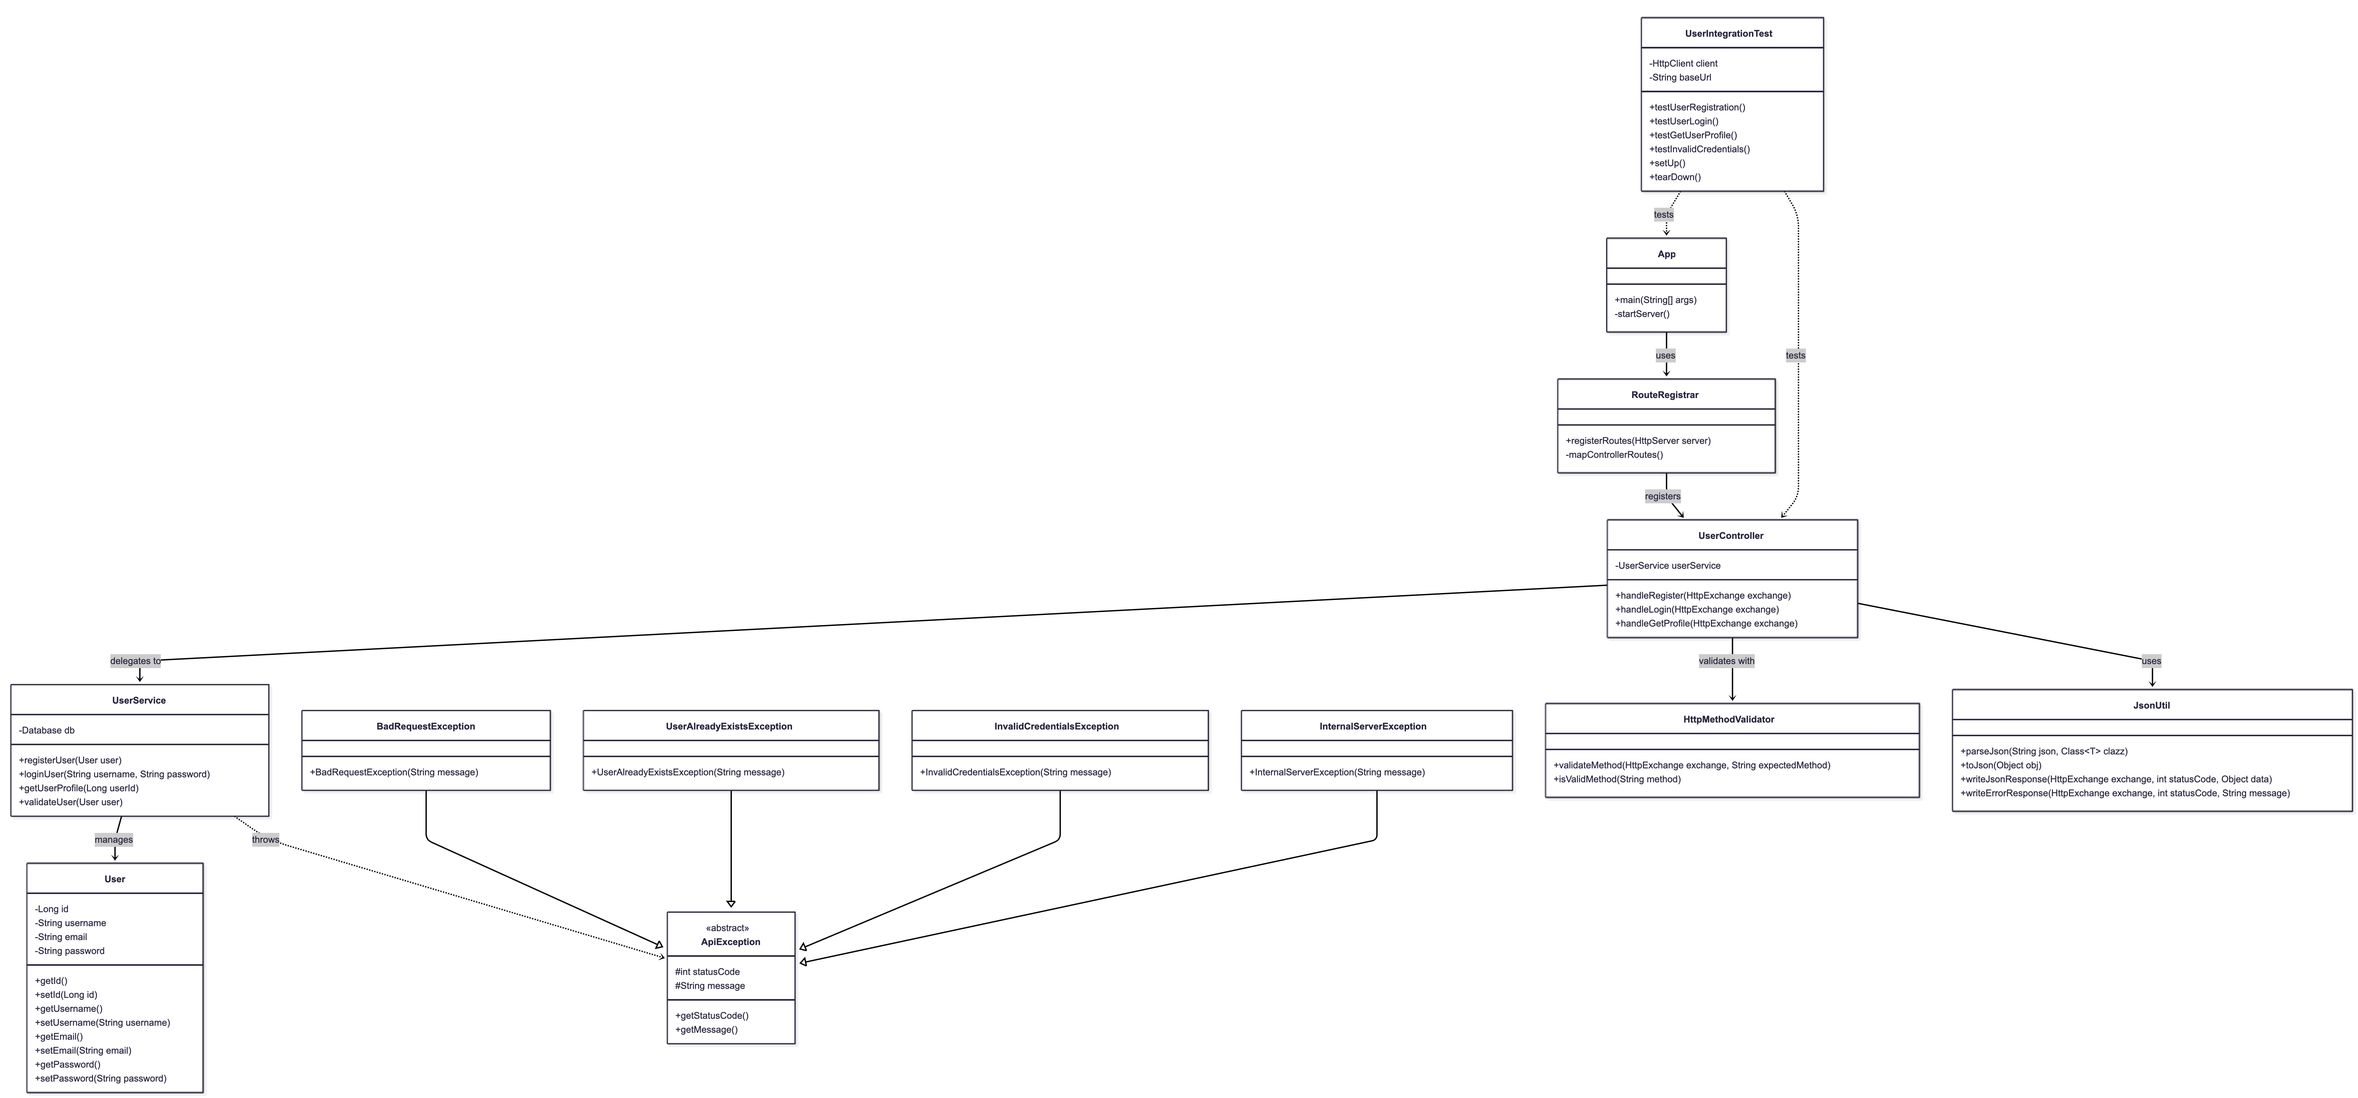
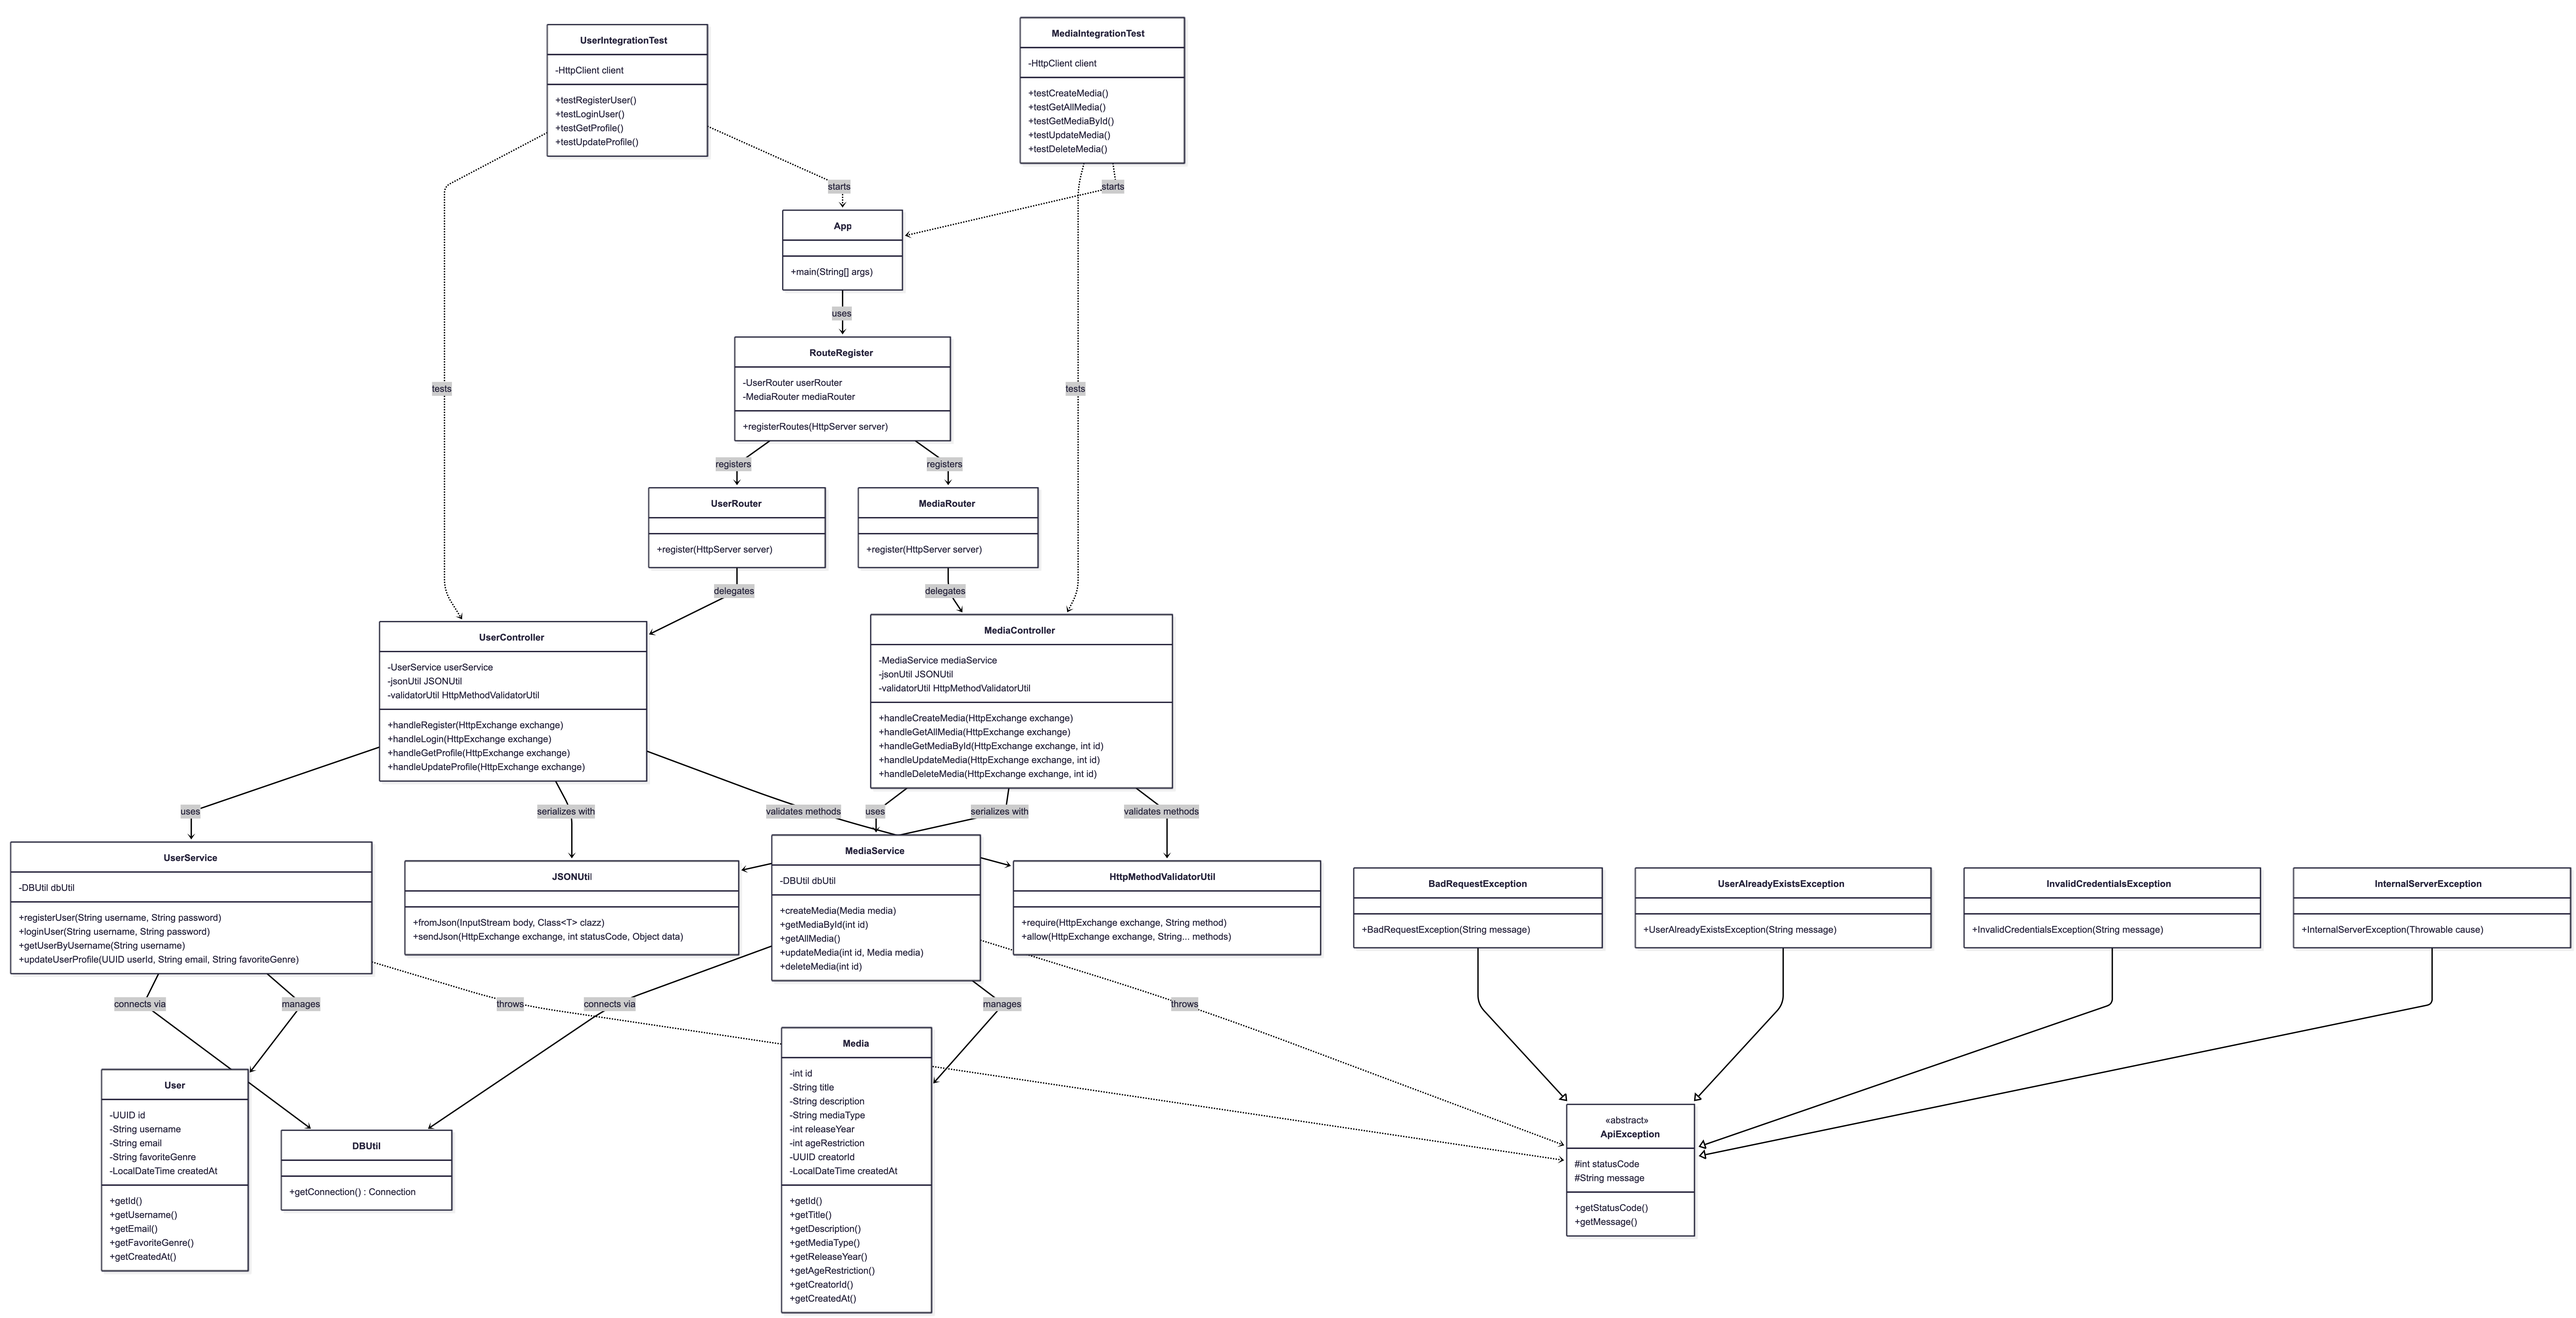
Updated README, protocol, json collection and diagram to match media crud

diff --git a/mrp/README.md b/mrp/README.md
@@ -60,12 +60,18 @@ Server runs at: http://localhost:8080
 
 ## API Endpoints
 
-| Method | Endpoint | Description |
-|--------|-----------|-------------|
-| POST | /api/users/register | Register a new user |
-| POST | /api/users/login | Log in and receive a token |
-| GET | /api/users/{username}/profile | Retrieve user profile |
-| PUT | /api/users/{username}/profile | Update user profile |
+| Method | Endpoint                      | Description                         |
+|--------|-------------------------------|-------------------------------------|
+| POST   | /api/users/register           | Register a new user                 |
+| POST   | /api/users/login              | Log in and receive a token          |
+| GET    | /api/users/{username}/profile | Retrieve user profile               |
+| PUT    | /api/users/{username}/profile | Update user profile                 |
+| POST   | /api/media                    | Create a new media entry            |
+| GET    | /api/media                    | Retrieve all media entries          |
+| GET    | /api/media/{id}               | Retrieve info about a media entry   |
+| PUT    | /api/media/{id}               | Update information of a media entry |
+| DELETE | /api/media/{id}               | Delete a specific media entry       |
+
 
 
 ## Error Handling
@@ -94,7 +100,6 @@ A Postman collection (MRP_Postman_Collection.json) is also included for manual a
 
 ## Future Extensions
 
-- Media CRUD endpoints (/api/media)
 - Rating and comments system
 - Favorites and recommendations
 - Leaderboard of most active users

diff --git a/mrp/protocol.md b/mrp/protocol.md
@@ -83,6 +83,17 @@ The Postman collection was used to validate manual endpoint testing, ensuring en
 
 ---
 
+### **Media CRUD implementation (October 19, 2025)**
+
+**Commit:** cfacc99797d3aa6cbf6c94a8e66301b976f05d1f
+**Message:** Added Media CRUD integration  
+**Description:**  
+The whole logic of the media APIs was given with routing, services to call the SQL commands and the controllers to do the 
+heavy business logic. In addition, the corresponding integration tests were also created.
+
+---
+
+
 ## Technical Decisions
 
 - **Language:** Java 24
